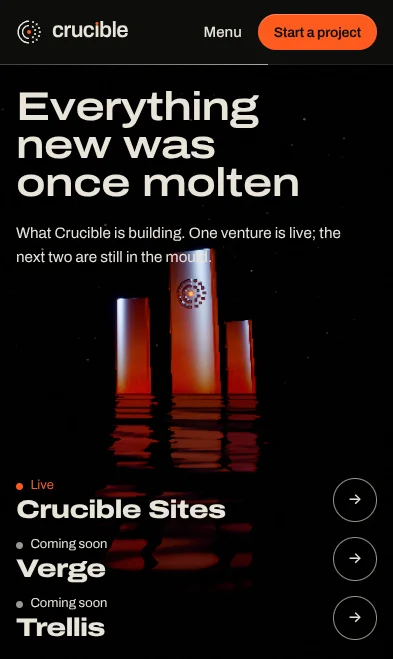
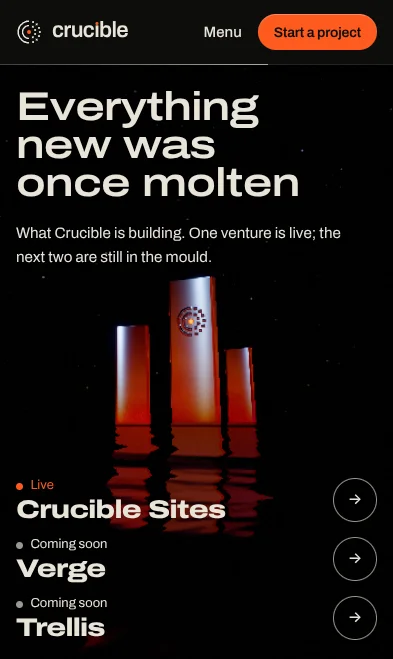
ventures: phones look up a little more (the monoliths clear of the lede, between it and the list)
Claude-Session: https://claude.ai/code/session_01PrrUSiXXihBZvt7P76trxx

Changed region(s): [[0.2443, 0.3642, 0.7023, 0.8801], [0.2137, 0.9408, 0.2748, 1.0]]

diff --git a/lib/world/ventures.ts b/lib/world/ventures.ts
@@ -260,8 +260,8 @@ export function venturesKeys(R: number): Key[] {
   // look's cold moon, low behind the camera's shoulder (fades in from story-3 and out into the thesis)
   const MOON = { 'look.moon': 1.2, 'look.moonAz': 150, 'look.moonEl': 12 };
   return [
-    { at: ['ventures', 0], s: deg(150), h: 3.2, yaw: 0, pitch: -3, fov: 50, ...FAR, ...MOON, ph: { fov: 64, pitch: 5 } },
-    { at: ['ventures', 1], s: deg(150) + 60, h: 3.4, yaw: 0, pitch: -3, fov: 50, ...FAR, ...MOON, ph: { fov: 64, pitch: 5 } },
+    { at: ['ventures', 0], s: deg(150), h: 3.2, yaw: 0, pitch: -3, fov: 50, ...FAR, ...MOON, ph: { fov: 64, pitch: 8 } },
+    { at: ['ventures', 1], s: deg(150) + 60, h: 3.4, yaw: 0, pitch: -3, fov: 50, ...FAR, ...MOON, ph: { fov: 64, pitch: 8 } },
   ];
 }
 
